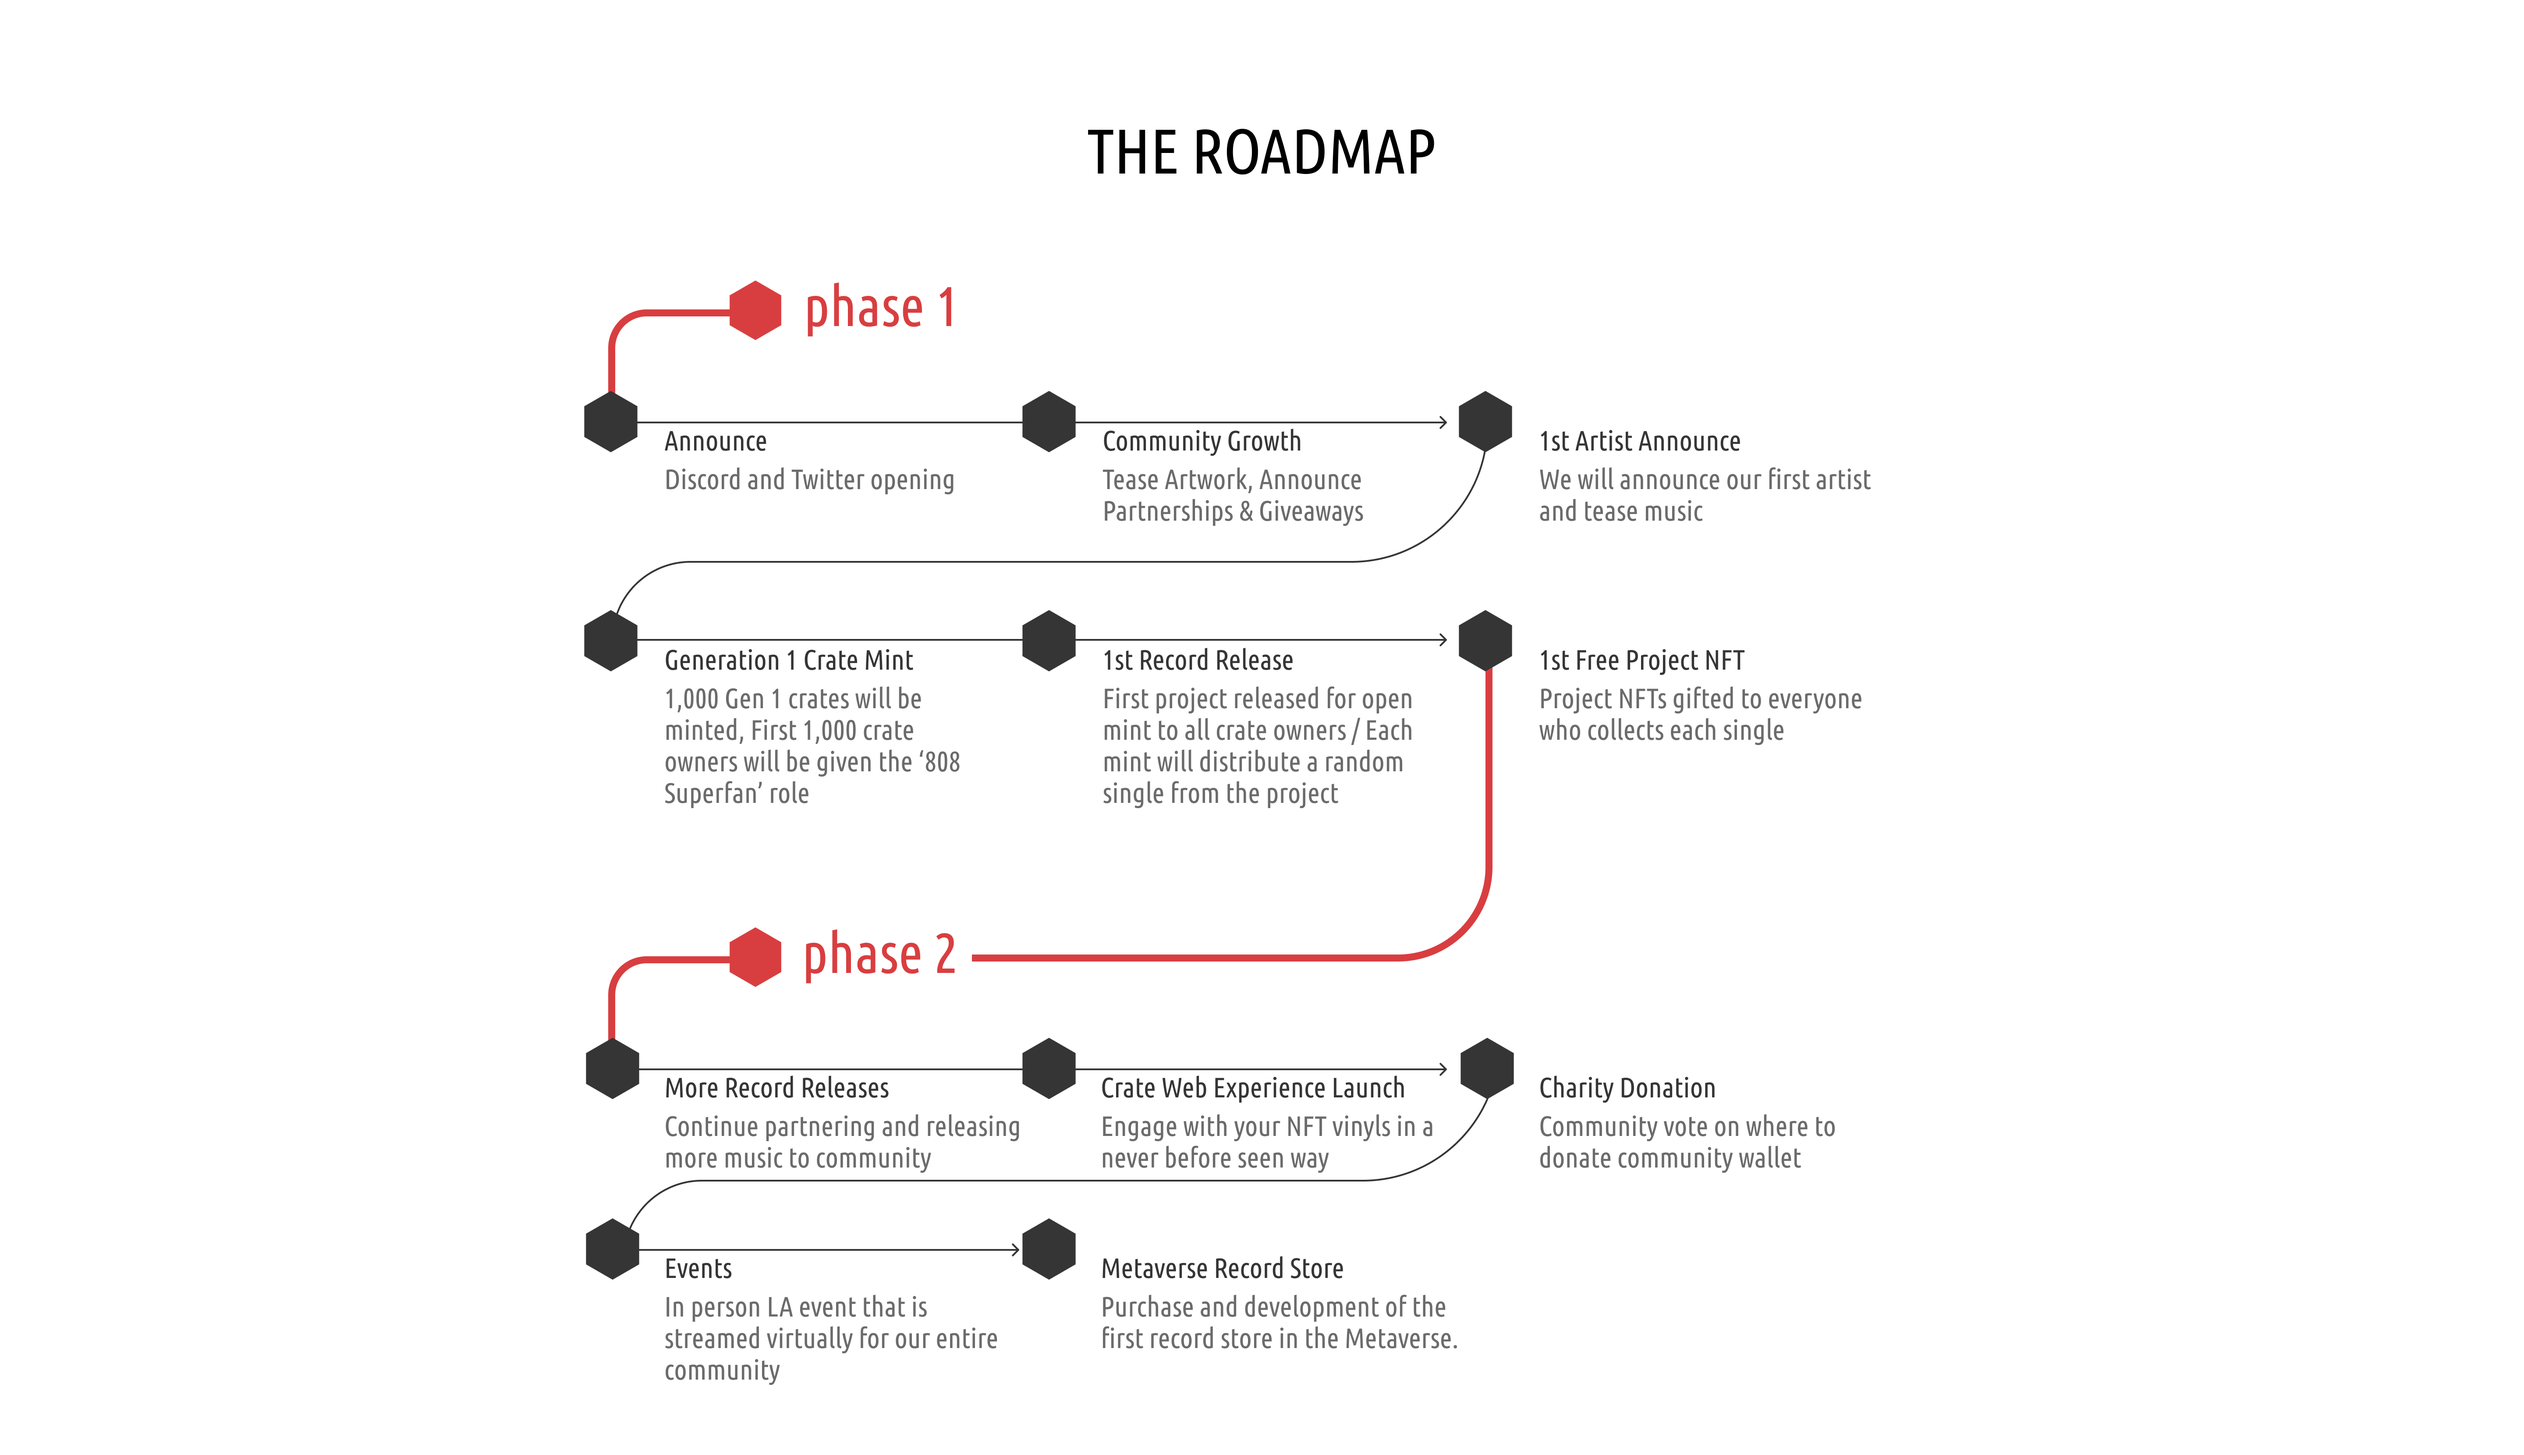
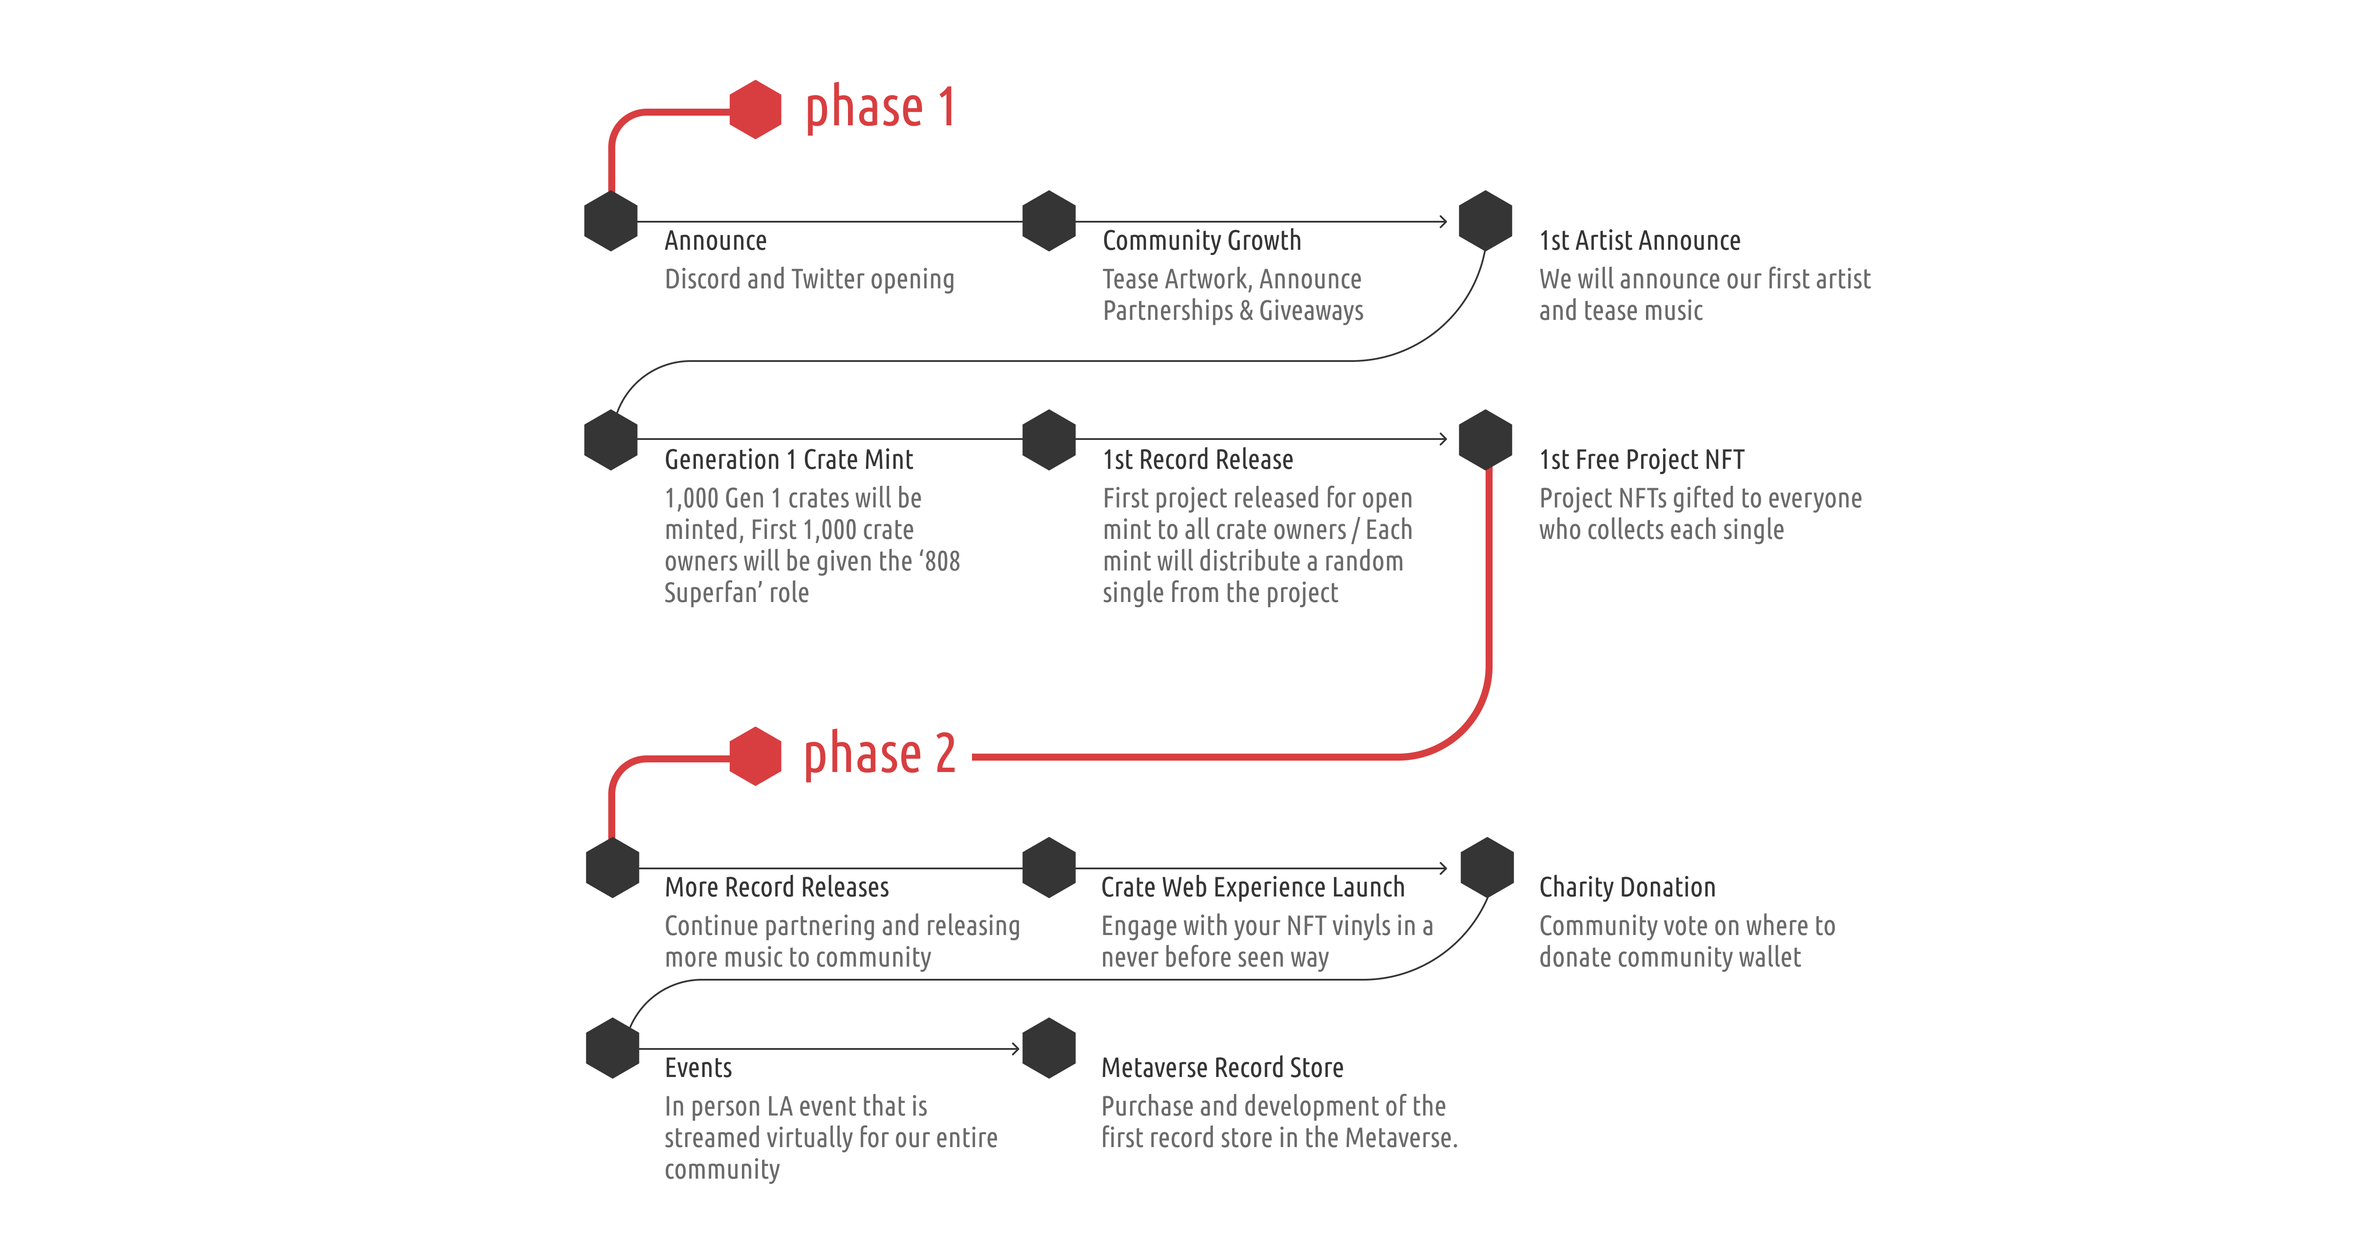
updates based on Aaron feedback

diff --git a/src/pages/about.js b/src/pages/about.js
@@ -37,7 +37,7 @@ const About = () => (
         Solana is an alternative blockchain and cryptocurrency solution to the
         negative economic impact Ethereum has had on the environment.
       </div>
-      <div className="w-full flex justify-center mt-6">{Arrow}</div>
+      {/* <div className="w-full flex justify-center mt-6">{Arrow}</div> */}
     </div>
 
     {/* web header */}
@@ -72,7 +72,7 @@ const About = () => (
     <div className="w-full flex justify-center pt-6 h-[227px] bg-[url('/images/cratesbg_desk.png')]">
       <div className="w-full text-center my-auto">
         <p className="uppercase text-metacrateWhite text-[36px] pb-6">
-          Read Our Roadmap
+          Roadmap
         </p>
         <Image
           src="/images/Arrow_web.svg"
@@ -85,7 +85,6 @@ const About = () => (
 
     {/* mobile roadmap */}
     <div className="px-16 sm:px-4 sm:w-1/2 my-10 mx-auto lg:hidden">
-      <div className="text-[32px] text-center uppercase pb-6">The Roadmap</div>
       {/* phase 1 graphic here */}
       <div className="flex items-center justify-center space-x-3">
         <div className="h-full">{RedPolygon}</div>
@@ -96,7 +95,7 @@ const About = () => (
       </div>
       <ul className="pt-6 pb-12">
         {/* dashed line */}
-        <div className="absolute h-[490px] border-dashed border-l-2 border-l-metacrateBlack/70 left-[46px] translate-y-6 sm:hidden" />
+        <div className="absolute h-[490px] border-dashed border-l-2 border-l-metacrateBlack/70 left-[49px] translate-y-6 sm:hidden" />
 
         <li>
           <div className="pl-3 -translate-y-2">
@@ -160,7 +159,7 @@ const About = () => (
       </div>
       <ul className="pt-6 pb-12">
         {/* dashed line */}
-        <div className="absolute h-[360px] border-dashed border-l-2 border-l-metacrateBlack/70 left-[46px] translate-y-6 sm:hidden" />
+        <div className="absolute h-[360px] border-dashed border-l-2 border-l-metacrateBlack/70 left-[49px] translate-y-6 sm:hidden" />
         <li>
           <div className="pl-3 -translate-y-2">
             More Record Releases

diff --git a/src/components/shared/Navbar.js b/src/components/shared/Navbar.js
@@ -41,7 +41,7 @@ const NavBar = () => {
               />
             </a>
           </Link>
-          {/* mobile social icons */}
+          {/* social icons */}
           <div className="hidden sm:block">
             <a href="discord.gg/dedao">
               <Image src={discord} height="60px" width="60px" alt="discord" />
@@ -119,6 +119,29 @@ const NavBar = () => {
               <div className="text-metacrateWhite/40 mt-6">record store</div>
               <div className="lowercase text-metacrateWhite/40 text-body-md">
                 (coming soon)
+              </div>
+              {/* mobile social icons */}
+              <div className="flex flex-row justify-center pt-4 space-x-3">
+                <div className="">
+                  <a href="discord.gg/dedao">
+                    <Image
+                      src={discord}
+                      height="80px"
+                      width="80px"
+                      alt="discord"
+                    />
+                  </a>
+                </div>
+                <div className="">
+                  <a href="twitter.com/metacrate">
+                    <Image
+                      src={twitter}
+                      height="80px"
+                      width="80px"
+                      alt="twitter"
+                    />
+                  </a>
+                </div>
               </div>
             </div>
             <div className="mx-auto py-8 text-metacrateWhite">
